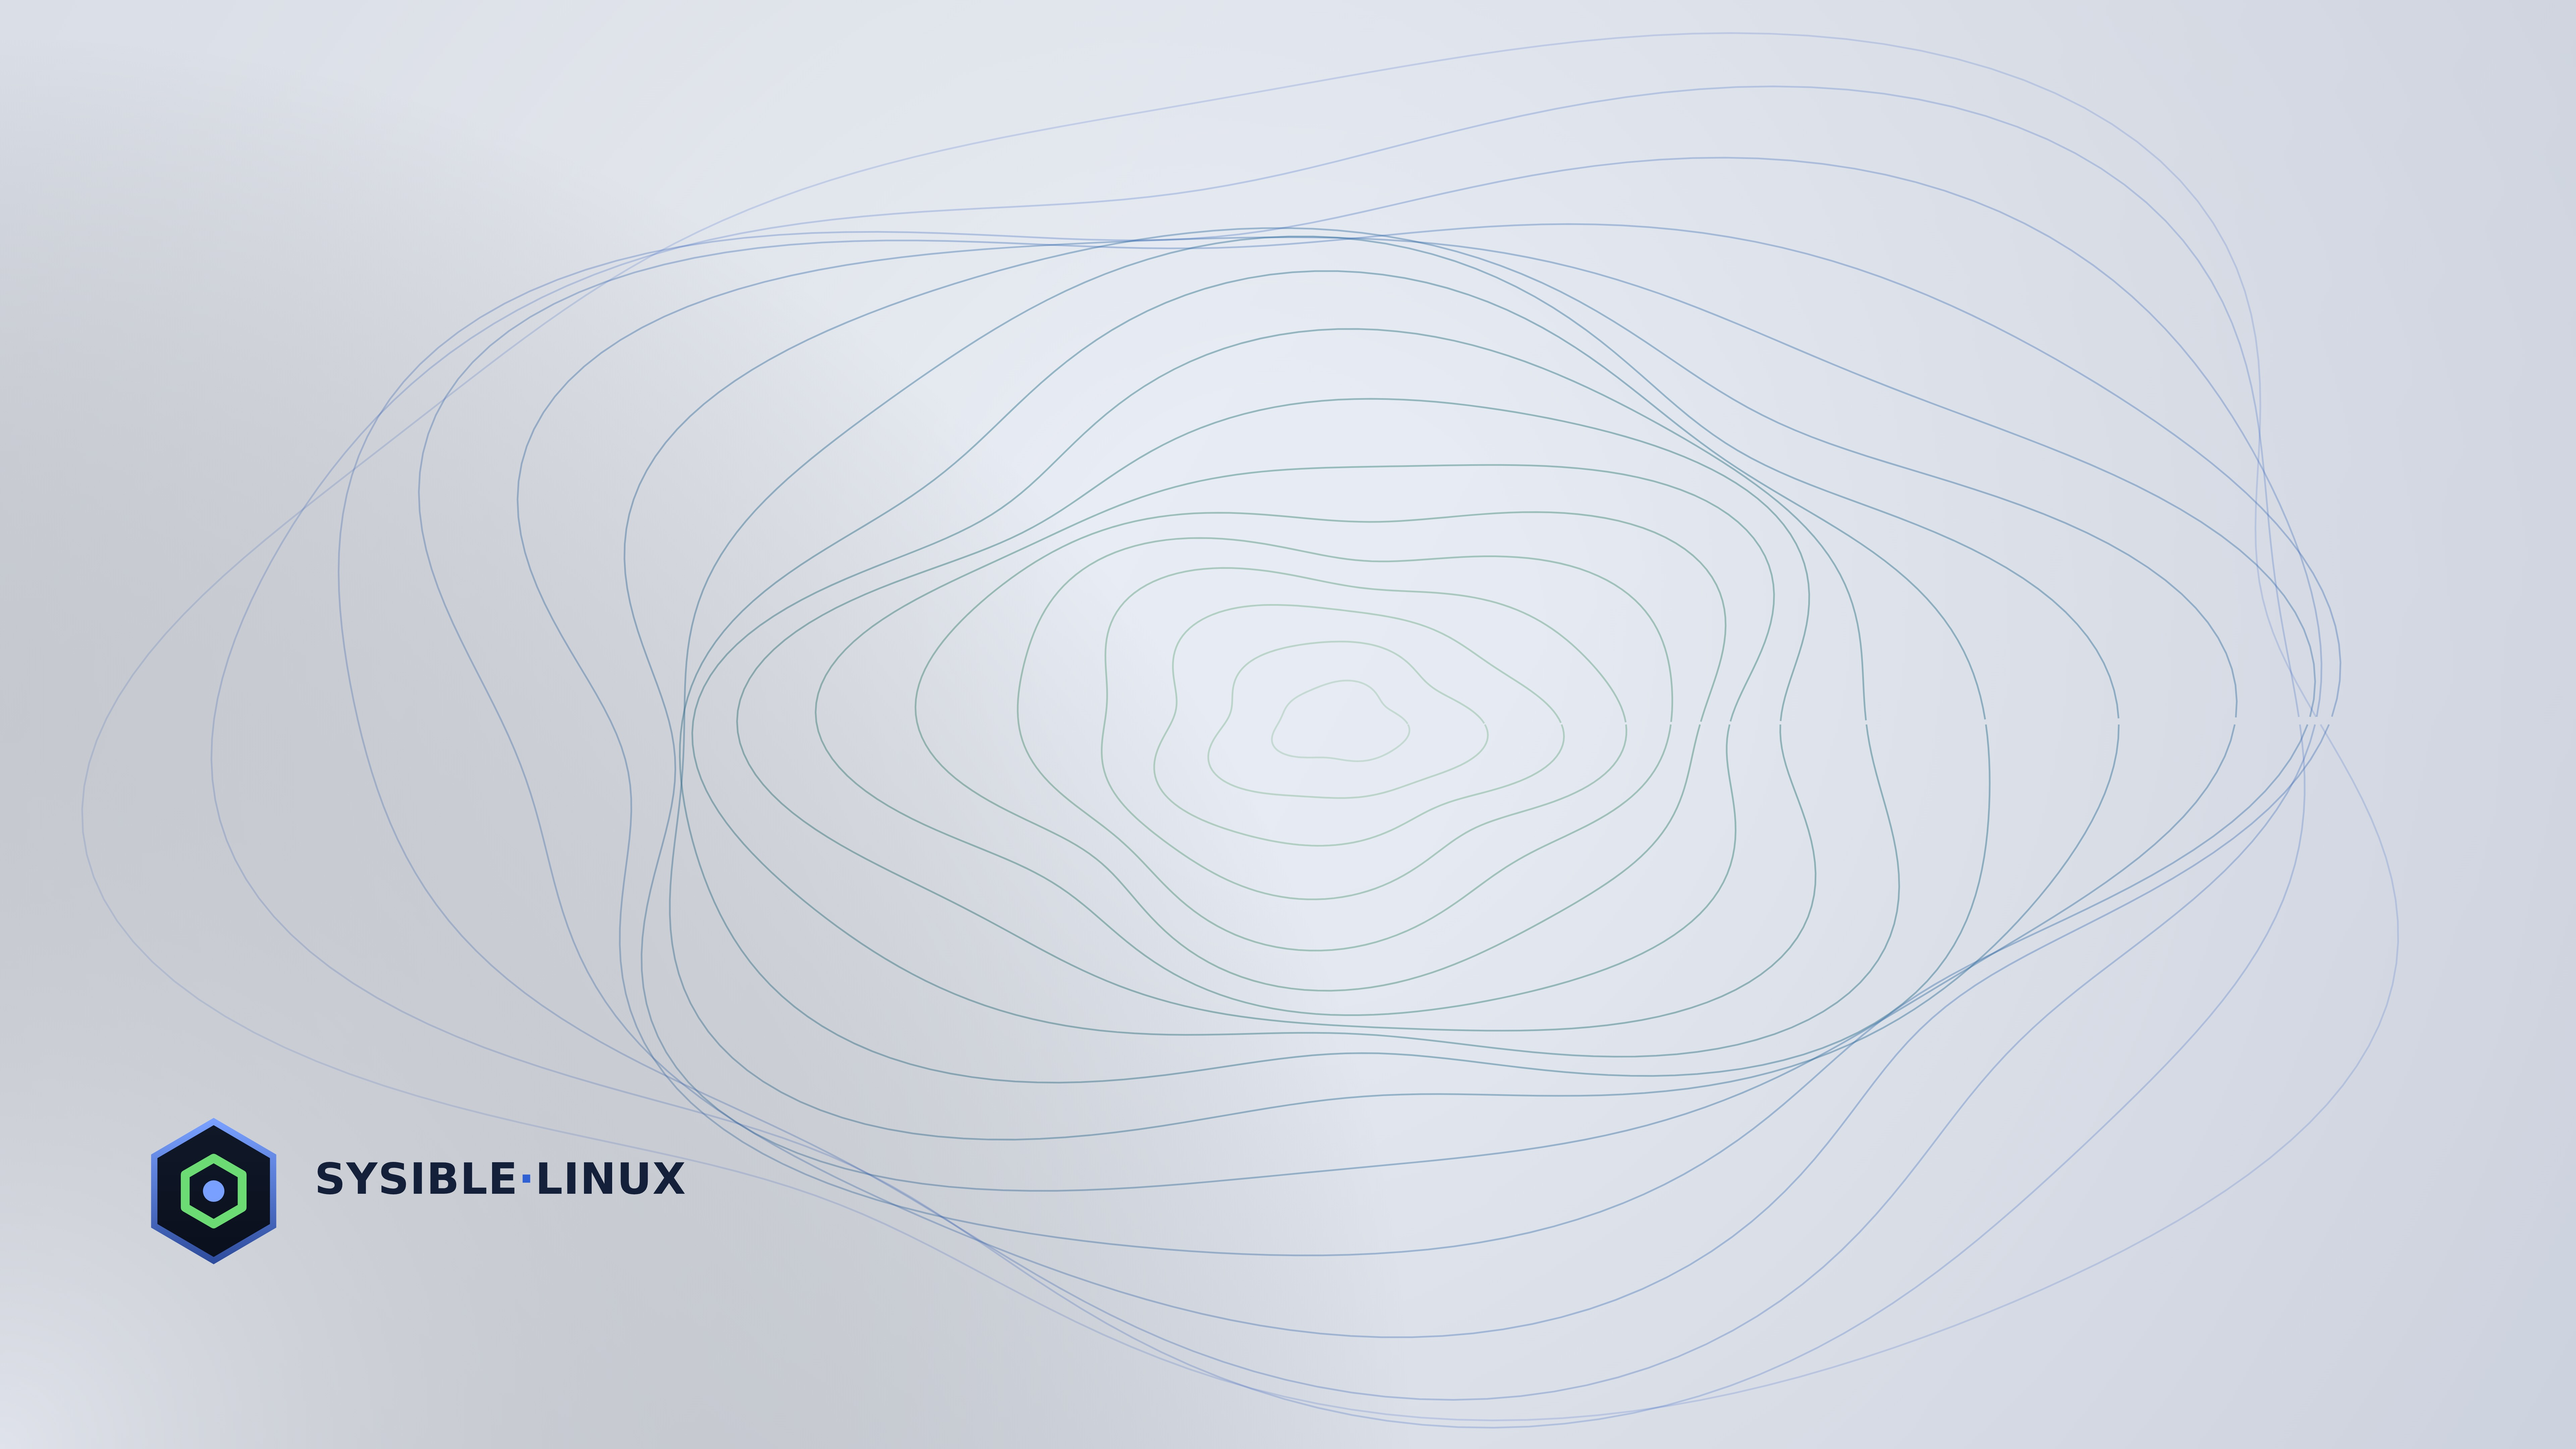
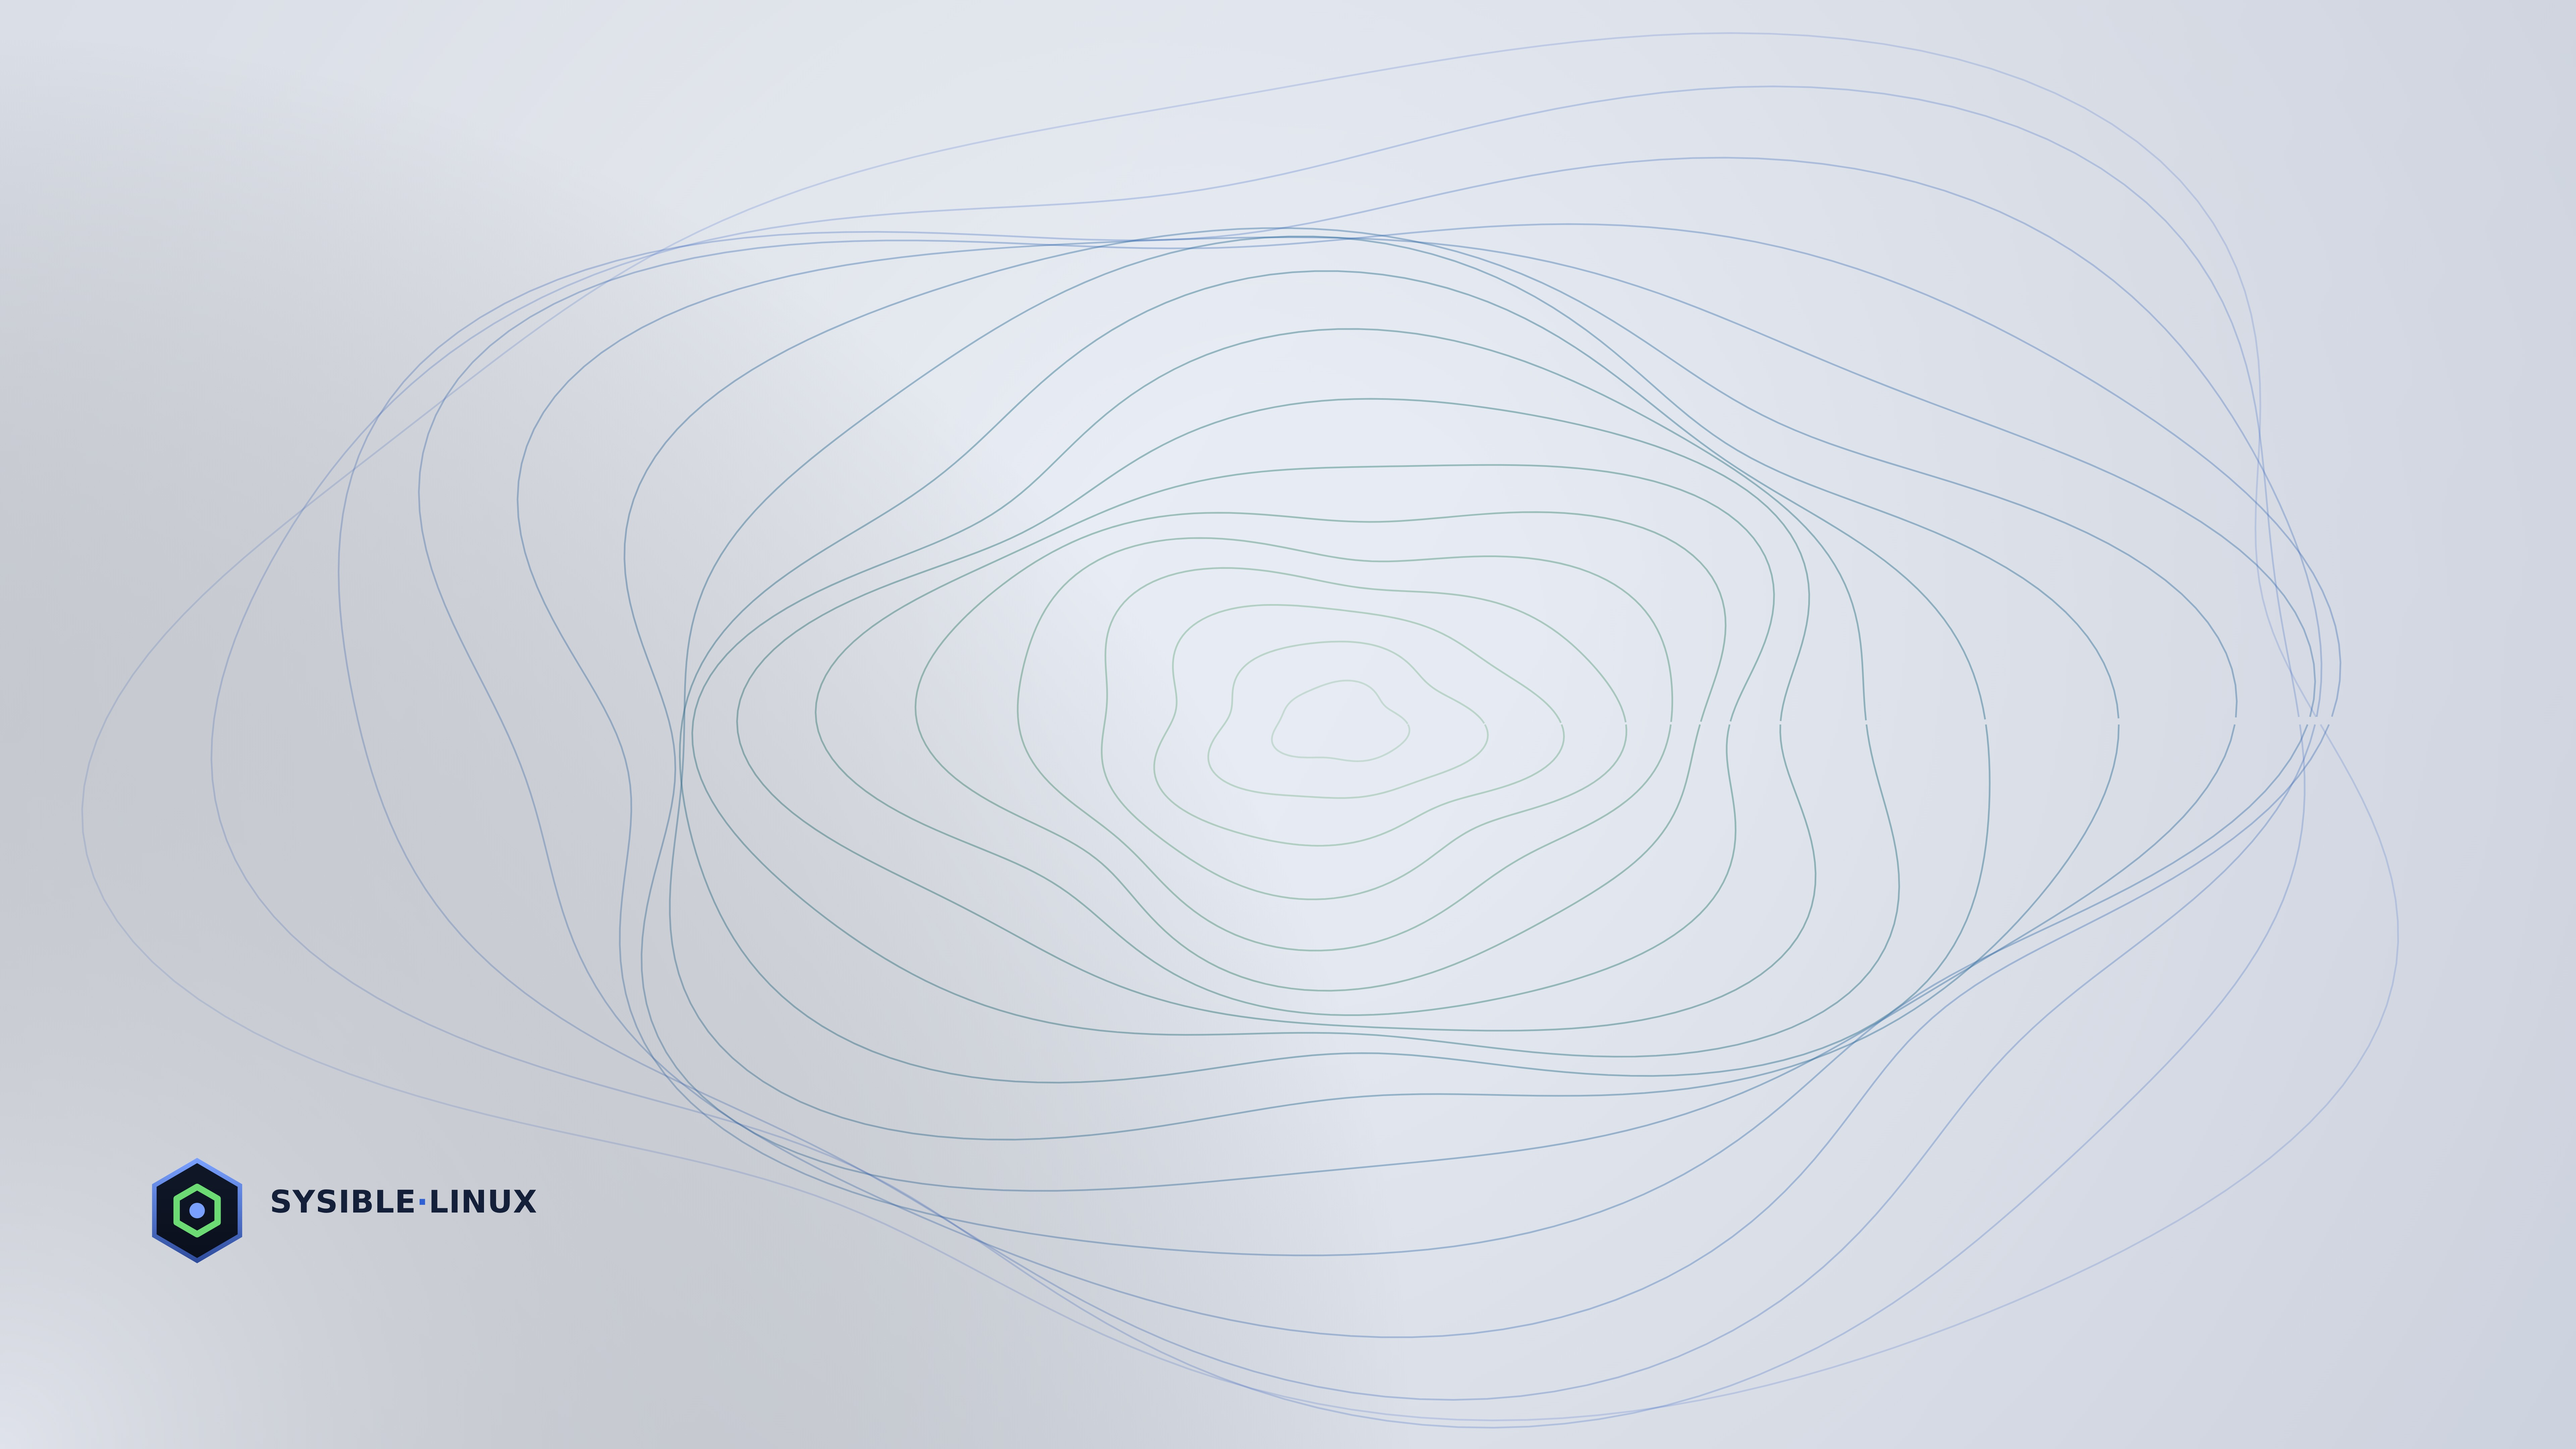
Wallpapers: smaller cleaner wordmarks + SysTerm & Controller backgrounds
- Centered Mesh lockup: smaller mark (0.112 -> 0.082) with the SYSIBLE·LINUX
  wordmark and a new ENGINEERING · AUTOMATION tagline beneath it.
- Corner lockup (Fleet/Contour/Aurora): wordmark scaled to 0.72 so it reads as
  a clean badge instead of dominating the lower-left.
- New product backgrounds sharing the same centered treatment: SysTerm (>_)
  and Sysible Controller (hub+nodes), dark + light, wired into the GNOME
  wallpaper chooser XML.
- Re-baked the whole set at 8K from the canonical marks.

Claude-Session: https://claude.ai/code/session_01Rykm1PRspyG3mLbsfLyocH

Changed region(s): [[0.0625, 0.7812, 0.25, 0.875]]

diff --git a/branding/wallpapers/wallpapers.js b/branding/wallpapers/wallpapers.js
@@ -17,19 +17,20 @@
   function vign(x,W,H,a,light){const v=x.createRadialGradient(W/2,H*0.44,Math.min(W,H)*0.16,W/2,H/2,Math.max(W,H)*0.72);v.addColorStop(0,'rgba(0,0,0,0)');v.addColorStop(1,light?('rgba(44,60,96,'+a+')'):('rgba(0,0,0,'+a+')'));x.fillStyle=v;x.fillRect(0,0,W,H);}
 
   // ---- centered lockup (Mesh) ----
-  function drawLogo(x,cx,cy,R,light){const k=R/20;
+  function drawLogo(x,cx,cy,R,light,markImg,word){const k=R/20;markImg=markImg||window.SYS_MARK;word=word||'SYSIBLE·LINUX';
     const rg=x.createRadialGradient(cx,cy,0,cx,cy,R*2.8);rg.addColorStop(0,light?'rgba(90,140,235,0.14)':'rgba(90,140,240,0.22)');rg.addColorStop(1,'rgba(0,0,0,0)');x.fillStyle=rg;x.fillRect(cx-R*3,cy-R*3,R*6,R*6);
-    /* the ACTUAL Sysible Linux mark (canonical SVG) — no hand-drawn copy to drift */
-    var S=R*2.327;if(window.SYS_MARK)x.drawImage(window.SYS_MARK,cx-S/2,cy-S/2,S,S);
-    x.save();x.textAlign='center';x.textBaseline='top';try{x.letterSpacing=(R*0.05)+'px';}catch(e){}x.font='600 '+(R*0.30)+'px '+SANS;x.fillStyle=light?'rgba(28,42,66,0.9)':'rgba(214,223,238,0.92)';x.fillText('SYSIBLE·LINUX',cx,cy+R*1.5);x.restore();}
-  function drawMesh(x,W,H,light){const s=H/1080;light?bgLin(x,W,H,'#eef1f7','#dfe4ee'):bgLin(x,W,H,'#090b10','#12151e');
+    /* the ACTUAL canonical product mark (SVG) — no hand-drawn copy to drift */
+    var S=R*2.327;if(markImg)x.drawImage(markImg,cx-S/2,cy-S/2,S,S);
+    x.save();x.textAlign='center';x.textBaseline='top';try{x.letterSpacing=(R*0.05)+'px';}catch(e){}x.font='600 '+(R*0.30)+'px '+SANS;x.fillStyle=light?'rgba(28,42,66,0.9)':'rgba(214,223,238,0.92)';x.fillText(word,cx,cy+R*1.5);
+    /* tagline under the wordmark */ try{x.letterSpacing=(R*0.145)+'px';}catch(e){}x.font='600 '+(R*0.125)+'px '+SANS;x.fillStyle=light?'rgba(60,80,120,0.82)':'rgba(150,170,205,0.80)';x.fillText('ENGINEERING · AUTOMATION',cx,cy+R*1.5+R*0.52);x.restore();}
+  function drawMesh(x,W,H,light,markImg,word){const s=H/1080;light?bgLin(x,W,H,'#eef1f7','#dfe4ee'):bgLin(x,W,H,'#090b10','#12151e');
     const r=30*s,hw=Math.sqrt(3)*r,vh=1.5*r,gx=W*0.5,gy=H*0.44,gR=Math.min(W,H)*0.52,faint=light?'rgba(58,84,132,0.11)':'rgba(150,170,200,0.055)';
     let row=0;for(let cy=-r;cy<H+r;cy+=vh,row++){const off=(row%2)?hw/2:0;for(let cx=-r+off;cx<W+r;cx+=hw){const d=Math.hypot(cx-gx,cy-gy);hexPath(x,cx,cy,r*0.93);
       if(d<gR){const t=1-d/gR,fx=clamp((cx-(gx-gR))/(2*gR),0,1);x.fillStyle=rgba(mixc('#43a047','#3560d4',fx),(light?0.05:0.06)+(light?0.15:0.30)*t*t);x.fill();
         const sc=light?mixc('#2f8f3c','#2f60d4',fx):mixc('#63c869','#5580ee',fx);x.lineWidth=1.1*s;x.strokeStyle=rgba(sc,(light?0.13:0.16)+(light?0.42:0.55)*t);x.stroke();
       }else{x.lineWidth=1*s;x.strokeStyle=faint;x.stroke();}}}
     const v=x.createRadialGradient(gx,gy,Math.min(W,H)*0.18,W/2,H/2,Math.max(W,H)*0.72);v.addColorStop(0,'rgba(0,0,0,0)');v.addColorStop(1,light?'rgba(42,58,92,0.12)':'rgba(0,0,0,0.55)');x.fillStyle=v;x.fillRect(0,0,W,H);
-    drawLogo(x,gx,gy,Math.min(W,H)*0.112,light);}
+    drawLogo(x,gx,gy,Math.min(W,H)*0.082,light,markImg,word);}
 
   // ---- bases (light-aware) ----
   function base_fleet(x,W,H,light){const s=H/1080;light?bgLin(x,W,H,'#eef1f7','#e0e5ef'):bgLin(x,W,H,'#0a0d13','#0e1119');
@@ -48,7 +49,7 @@
 
   // ---- bottom-left lockup ----
   function drawMark(x,cx,cy,R,light){var S=R*2.327;if(window.SYS_MARK)x.drawImage(window.SYS_MARK,cx-S/2,cy-S/2,S,S);}
-  function lockup(x,W,H,light){const R=H*0.048,mB=H*0.13,mLx=W*0.06,k=R/20,cx=mLx+17*k,cy=H-mB-R;
+  function lockup(x,W,H,light){const R=H*0.048*0.72,mB=H*0.13,mLx=W*0.06,k=R/20,cx=mLx+17*k,cy=H-mB-R;
     const rg=x.createRadialGradient(0,H,0,0,H,W*0.55);rg.addColorStop(0,light?'rgba(236,238,244,0.42)':'rgba(0,0,0,0.38)');rg.addColorStop(1,'rgba(0,0,0,0)');x.fillStyle=rg;x.fillRect(0,0,W,H);
     drawMark(x,cx,cy,R,light);
     const tx=cx+17*k+R*0.6,wSize=R*0.62,tSize=R*0.235,white=light?'#14203a':'#eaeef6',accent=light?'#2f60d4':'#6f9bff',mut=light?'rgba(40,55,85,0.72)':'rgba(160,175,200,0.85)';
@@ -72,6 +73,10 @@
   const R = {
     'mesh-dark':      function(x,W,H){drawMesh(x,W,H,false);},
     'mesh-light':     function(x,W,H){drawMesh(x,W,H,true);},
+    'systerm-dark':    function(x,W,H){drawMesh(x,W,H,false,window.SYS_TERM,'SYSTERM');},
+    'systerm-light':   function(x,W,H){drawMesh(x,W,H,true,window.SYS_TERM,'SYSTERM');},
+    'controller-dark': function(x,W,H){drawMesh(x,W,H,false,window.SYS_CTRL,'SYSIBLE·CONTROLLER');},
+    'controller-light':function(x,W,H){drawMesh(x,W,H,true,window.SYS_CTRL,'SYSIBLE·CONTROLLER');},
     'fleet-dark':     function(x,W,H){base_fleet(x,W,H,false);lockup(x,W,H,false);},
     'fleet-light':    function(x,W,H){base_fleet(x,W,H,true);lockup(x,W,H,true);},
     'contour-dark':   function(x,W,H){base_topo(x,W,H,false);lockup(x,W,H,false);},
